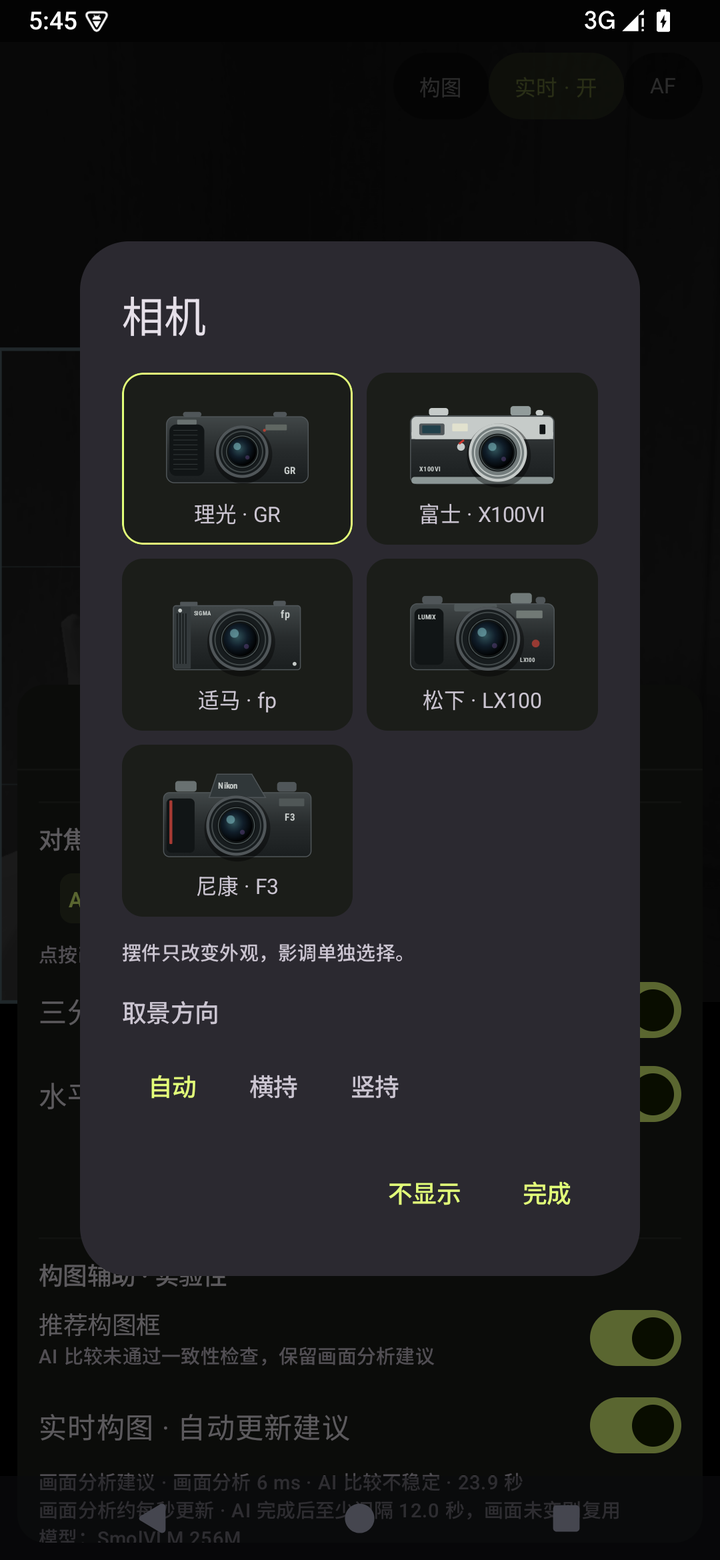
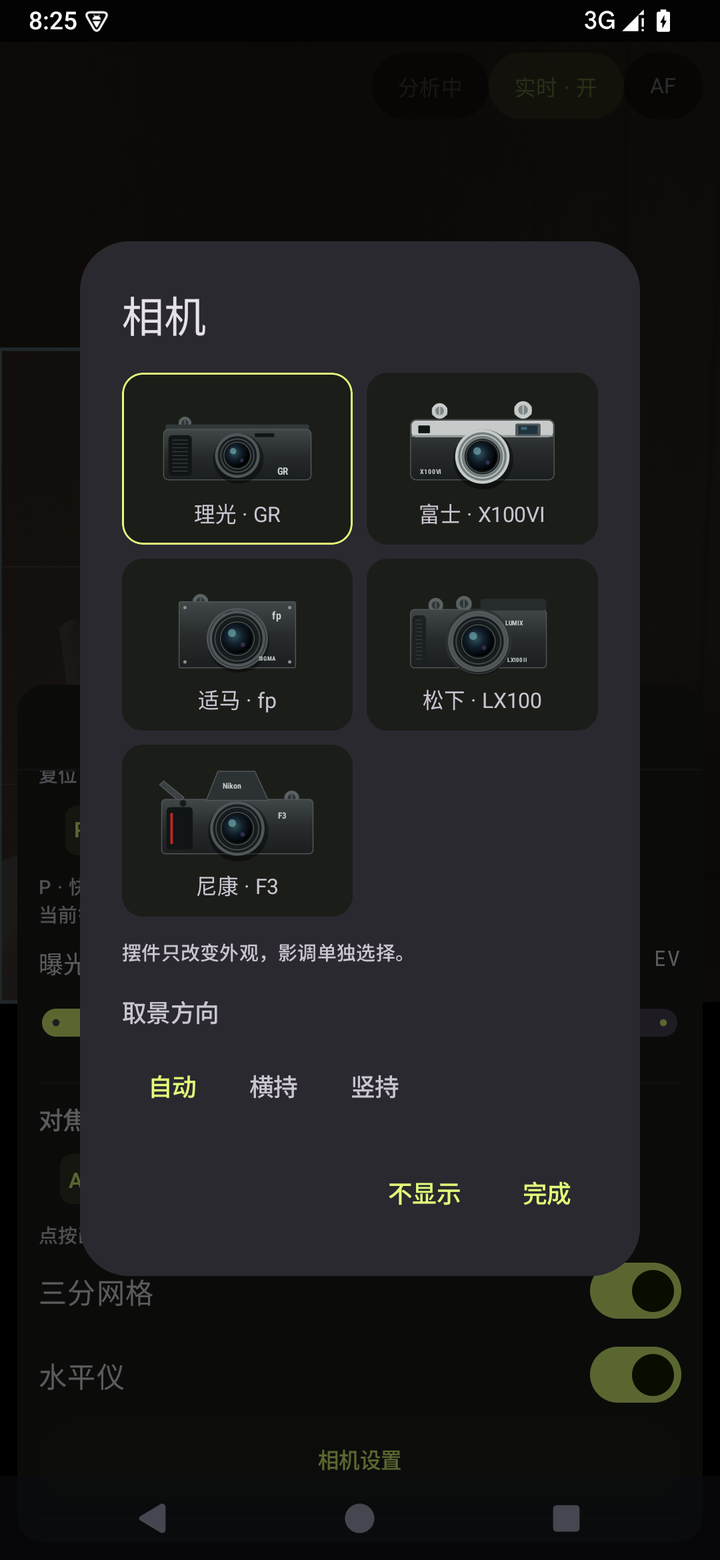
feat: give each camera collectible its own body-derived silhouette
All five camera artworks shared one rounded-rectangle body with a centered
lens and differed only in the lettering, so at 76x48dp in the tone-family
row and even in the picker dialog they read as the same camera. Each is
redrawn around the silhouette cues of the real body, still original
Compose Canvas vector art on the fixed 180x112 canvas with the same dark
palette — no downloaded product imagery:

- Ricoh GR III: the flattest, widest body, absolutely flat top with no
  hump/finder/flash (hot shoe only), one mode dial over the holder's
  right shoulder, a small grip ridge and centered fixed lens (an
  off-center barrel is a documented lens fault, not the design).
- Fujifilm X100VI: silver top deck with two dials (shutter speed and
  exposure compensation), the large square hybrid-viewfinder window high
  on the viewer-right, centered lens with silver ring.
- Sigma fp: hard-edged die-cast block — no hump, grip or front window;
  one combined dial/shutter, twin mic slots above the centered L-mount,
  four case screws for the modular industrial body.
- Panasonic LX100 II: asymmetric stepped deck — two sunken dials over the
  holder's right (viewer-left) shoulder, a raised EVF housing on the
  viewer-right, small grip swell, large protruding centered zoom lens.
  No red dot (that is the Leica D-LUX sibling).
- Nikon F3 (DE-2): dominant low angular pentaprism, film advance lever
  over the viewer-left shoulder, shutter-speed dial on the viewer-right,
[…]

diff --git a/app/src/main/java/dev/streetsnap/app/CameraArtwork.kt b/app/src/main/java/dev/streetsnap/app/CameraArtwork.kt
@@ -74,77 +74,126 @@ private fun DrawScope.lens(x: Float, y: Float, radius: Float, silver: Boolean = 
     drawCircle(Color(0xFF869494).copy(alpha = .6f), radius * .6f, c, style = Stroke(.75f))
 }
 
+/** Top-deck control dial: knurled cylinder poking above the deck line. */
+private fun DrawScope.dial(x: Float, topY: Float, r: Float, silver: Boolean = true) {
+    val metal = if (silver) Color(0xFFC6CBC9) else Color(0xFF5B6263)
+    val dark = if (silver) Color(0xFF7E8786) else Color(0xFF303536)
+    drawRoundRect(dark, Offset(x - r, topY + r * .5f), Size(r * 2, r * 1.1f), CornerRadius(1.5f))
+    drawCircle(metal, r, Offset(x, topY + r))
+    drawCircle(dark, r * .55f, Offset(x, topY + r))
+    drawLine(metal, Offset(x, topY + r * .5f), Offset(x, topY + r * 1.5f), 1.2f)
+}
+
+/* Ricoh GR III: the flattest, widest body here — absolutely flat top with
+ * no hump, no built-in finder or flash (hot shoe only), a centered fixed
+ * lens (an off-center barrel is a documented lens fault, not the design)
+ * and a small grip ridge on the viewer-left, i.e. the holder's right hand.
+ * The single mode dial rides that same viewer-left shoulder. */
 private fun DrawScope.ricohGr() {
-    panel(34f, 26f, 19f, 5f, bodyEdge)
-    panel(127f, 26f, 14f, 5f, bodyEdge)
-    body(17f, 31f, 146f, 68f, 8f)
-    panel(20f, 39f, 36f, 53f, inset, 7f)
-    for (y in 45..87 step 5) drawLine(Color(0xFF343A3A), Offset(24f, y.toFloat()), Offset(49f, y.toFloat()), .65f)
-    panel(28f, 34f, 20f, 5f, Color(0xFF697170), 1f)
-    panel(119f, 39f, 22f, 6f, Color(0xFF606762), 1f)
-    lens(95f, 67f, 27f)
-    lettering("GR", 138f, 90f, 10f)
-    drawCircle(Color(0xFFB04135), 1.5f, Offset(118f, 45f))
+    dial(36f, 31f, 6.5f, silver = false) // mode dial over the holder's right shoulder
+    panel(16f, 39f, 148f, 6f, Color(0xFF323839), 2f)
+    body(14f, 44f, 152f, 52f, 5f)
+    // hot shoe near center, toward the viewer-right
+    panel(108f, 48f, 20f, 4f, inset, 1f)
+    // small anti-slip grip on the viewer-left
+    panel(19f, 50f, 24f, 42f, inset, 4f)
+    for (y in 55..87 step 4) drawLine(Color(0xFF3A4141), Offset(23f, y.toFloat()), Offset(39f, y.toFloat()), .8f)
+    // centered fixed lens, all black
+    lens(90f, 71f, 23f)
+    lettering("GR", 131f, 91f, 10f)
 }
 
+/* Fujifilm X100VI: flat silver top deck (no prism), two control dials,
+ * the big square hybrid viewfinder window high on the viewer-right,
+ * silver-rimmed lens. Two-tone silver/black is the main thumbnail cue. */
 private fun DrawScope.fujiX100() {
-    panel(35f, 22f, 20f, 8f, bodySilver)
-    panel(119f, 20f, 21f, 10f, Color(0xFF929C9B))
-    panel(145f, 24f, 8f, 6f, bodySilver)
-    body(16f, 30f, 148f, 70f)
-    panel(17f, 31f, 146f, 23f, bodySilver, 5f)
-    panel(17f, 47f, 146f, 7f, bodySilver, 0f)
-    panel(17f, 93f, 146f, 7f, Color(0xFF8C9796), 3f)
-    panel(25f, 38f, 26f, 12f, bodyEdge, 2f)
-    panel(28f, 40f, 19f, 8f, Color(0xFF21404A), 1f)
-    panel(59f, 38f, 16f, 8f, Color(0xFFE1E1CE), 1f)
-    panel(149f, 39f, 6f, 10f, inset, 1f)
-    lens(106f, 68f, 30f, silver = true)
-    lettering("X100VI", 25f, 87f, 7f)
-    drawCircle(bodySilver, 4f, Offset(68f, 62f))
-    drawLine(Color(0xFFCE352D), Offset(66f, 59f), Offset(71f, 55f), 2f)
+    // dials sit on the deck: draw first, body overlaps their lower halves
+    dial(46f, 17f, 8f)   // shutter speed dial
+    dial(132f, 15f, 9f)  // exposure compensation dial
+    body(16f, 34f, 148f, 62f, 6f)
+    // silver top band across the whole front
+    panel(17f, 35f, 146f, 17f, bodySilver, 5f)
+    panel(17f, 50f, 146f, 1.6f, Color(0xFF8C9796))
+    // hybrid viewfinder: tall square window viewer-right
+    panel(124f, 38f, 26f, 13f, bodyEdge, 2f)
+    panel(127f, 40f, 20f, 9f, Color(0xFF1E333C), 1f)
+    panel(130f, 41.5f, 6f, 3f, Color(0xFF3E6672), .6f)
+    // small AF lamp viewer-left
+    panel(24f, 40f, 12f, 8f, inset, 1f)
+    lens(90f, 72f, 28f, silver = true) // centered lens with silver front ring
+    lettering("X100VI", 26f, 90f, 7f)
 }
 
+/* Sigma fp: a hard-edged die-cast block — the only body with no hump, no
+ * grip and no front window. A single combined dial/shutter sits over the
+ * viewer-left shoulder, twin mic slots straddle the centered L-mount, and
+ * the four case screws signal the modular, industrial body. */
 private fun DrawScope.sigmaFp() {
-    panel(31f, 30f, 18f, 4f, bodyEdge, 1f)
-    panel(127f, 29f, 13f, 5f, bodyEdge, 2f)
-    body(24f, 34f, 131f, 66f, 3f)
-    panel(25f, 35f, 17f, 64f, Color(0xFF343A3C), 1f)
-    for (x in 28..39 step 3) drawLine(inset, Offset(x.toFloat(), 42f), Offset(x.toFloat(), 94f), 1f)
-    drawCircle(bodySilver, 2f, Offset(31f, 39f))
-    drawCircle(bodySilver, 2f, Offset(149f, 94f))
-    lens(93f, 69f, 32f)
-    lettering("fp", 135f, 47f, 11f)
-    lettering("SIGMA", 45f, 44f, 6f)
+    dial(52f, 22f, 8f, silver = false) // combined dial + shutter, holder's right shoulder
+    body(30f, 30f, 120f, 68f, 1.5f)    // near right-angled block
+    // twin microphone slots symmetric above the mount
+    panel(78f, 39f, 9f, 3f, inset, 1f)
+    panel(93f, 39f, 9f, 3f, inset, 1f)
+    // case screws
+    drawCircle(Color(0xFF8A9291), 1.7f, Offset(36f, 36f))
+    drawCircle(Color(0xFF8A9291), 1.7f, Offset(144f, 36f))
+    drawCircle(Color(0xFF8A9291), 1.7f, Offset(36f, 92f))
+    drawCircle(Color(0xFF8A9291), 1.7f, Offset(144f, 92f))
+    lens(90f, 68f, 29f)
+    drawCircle(bodyEdge, 30.5f, Offset(90f, 68f), style = Stroke(2f)) // L-mount ring
+    lettering("fp", 126f, 48f, 11f)
+    lettering("SIGMA", 112f, 91f, 6f)
 }
 
+/* Panasonic LX100 II: asymmetric stepped top. From the viewer's side the
+ * EVF housing raises the right half of the deck (the holder's left
+ * shoulder), two sunken dials cluster over the viewer-left shoulder beside
+ * the small grip, and the large protruding zoom lens dominates the face.
+ * No red dot — that is the Leica D-LUX sibling, not the Lumix. */
 private fun DrawScope.lumixLx100() {
-    panel(28f, 24f, 21f, 8f, bodyEdge)
-    panel(119f, 21f, 22f, 11f, Color(0xFF717A79))
-    panel(145f, 25f, 10f, 7f, bodyEdge)
-    body(16f, 32f, 148f, 68f)
-    panel(20f, 37f, 30f, 58f, inset, 6f)
-    panel(61f, 32f, 44f, 8f, Color(0xFF51595A), 2f)
-    panel(125f, 39f, 27f, 8f, Color(0xFF717975), 1f)
-    lens(96f, 68f, 33f)
-    drawCircle(Color(0xFF973A33), 4f, Offset(145f, 73f))
-    lettering("LUMIX", 24f, 48f, 7f)
-    lettering("LX100", 129f, 92f, 6f)
+    // two dials over the holder's right shoulder = viewer-left
+    dial(42f, 26f, 7.5f, silver = false) // shutter speed dial
+    dial(71f, 24f, 8f, silver = false)   // exposure compensation dial
+    body(16f, 38f, 140f, 60f, 4f)
+    // EVF housing raises the viewer-right half of the deck
+    panel(88f, 27f, 68f, 12f, Color(0xFF262C2D), 3f)
+    // small grip swell on the viewer-left (holder's right hand)
+    panel(18f, 44f, 14f, 50f, Color(0xFF1C2021), 4f)
+    for (y in 49..89 step 4) drawLine(Color(0xFF394040), Offset(21f, y.toFloat()), Offset(28f, y.toFloat()), .8f)
+    // large protruding zoom lens, extra barrel rings read as extended
+    lens(86f, 71f, 29f)
+    drawCircle(Color(0xFF52595A), 30.2f, Offset(86f, 71f), style = Stroke(2.4f))
+    drawCircle(Color(0xFF2C3233), 33f, Offset(86f, 71f), style = Stroke(2f))
+    lettering("LUMIX", 114f, 54f, 7f)
+    lettering("LX100 II", 116f, 92f, 6f)
 }
 
+/* Nikon F3 with the DE-2 eye-level prism: the low, angular central
+ * pentaprism towers over every other body and is the whole silhouette.
+ * Film advance lever flicks out over the viewer-left shoulder (coaxial
+ * with the shutter), the shutter-speed dial rides the viewer-right
+ * shoulder, and Giugiaro's red vertical line runs down the concave grip
+ * on the viewer-left. Centered lens on the tallest, most squared body. */
 private fun DrawScope.nikonF3() {
-    panel(26f, 23f, 22f, 11f, Color(0xFF697171))
-    panel(131f, 24f, 20f, 10f, bodyEdge)
-    body(14f, 35f, 152f, 66f, 6f)
-    val prism = Path().apply {
-        moveTo(61f, 40f); lineTo(69f, 16f); lineTo(105f, 16f); lineTo(119f, 40f); close()
+    // film advance lever flicking out over the viewer-left shoulder
+    val lever = Path().apply {
+        moveTo(30f, 44f); lineTo(10f, 27f); lineTo(14f, 23f); lineTo(35f, 40f); close()
     }
-    drawPath(prism, Color(0xFF303739))
+    drawPath(lever, Color(0xFF3B4142))
+    drawPath(lever, bodyEdge, style = Stroke(1f))
+    dial(146f, 33f, 7.5f, silver = false) // shutter-speed dial, viewer-right shoulder
+    body(12f, 42f, 156f, 56f, 4f)
+    // dominant low angular pentaprism
+    val prism = Path().apply {
+        moveTo(58f, 43f); lineTo(70f, 13f); lineTo(108f, 13f); lineTo(122f, 43f); close()
+    }
+    drawPath(prism, Color(0xFF2C3234))
     drawPath(prism, bodyEdge, style = Stroke(1f))
-    panel(17f, 41f, 29f, 56f, inset, 5f)
-    panel(20f, 43f, 3f, 45f, Color(0xFFA83A33), 1f)
-    panel(133f, 41f, 26f, 8f, Color(0xFF505757), 1f)
-    lens(89f, 69f, 31f)
-    lettering("Nikon", 70f, 31f, 9f)
-    lettering("F3", 139f, 64f, 10f)
+    lettering("Nikon", 75f, 31f, 8.5f)
+    // concave grip on the viewer-left with the red vertical accent line
+    panel(17f, 50f, 27f, 44f, inset, 4f)
+    panel(21f, 56f, 2.6f, 32f, Color(0xFFC0271F), .8f)
+    drawCircle(Color(0xFF171B1C), 3.4f, Offset(34f, 46f)) // shutter release, viewer-left
+    lens(90f, 72f, 28f)
+    lettering("F3", 132f, 62f, 9f)
 }

diff --git a/docs/images/README.md b/docs/images/README.md
@@ -3,7 +3,7 @@
 图片来自安装在 Android 15（API 35）ARM64 模拟器上的 Preview APK（2026-10-18，全屏取景器新 UI）。取景为模拟器内置 virtualscene 测试房间，截图不代表荣耀 Vs3 真机或实际摄影效果。
 
 - `viewfinder.png`（720×1560，竖屏 1080×2340 截图缩放）：全屏取景器、三分网格、画面分析（规则）蓝色推荐框与中文建议卡；状态行实时显示来源与耗时（此图为「画面分析建议 · 画面分析 2 ms · AI 比较不稳定 · 28.9 秒」，模型两轮选择不一致时如实保留蓝框）；底部渐变浮层为焦段分段条、缩略图、居中快门与「调整」入口，顶部为构图/实时/AF 胶囊。
-- `camera-picker.png`（720×1560）：控制面板「拍摄」分区→「相机设置」里的相机摆件选择弹窗，五款相机与取景方向（自动/横持/竖持）；摆件只改变外观，影调单独选择。
+- `camera-picker.png`（720×1560）：控制面板「拍摄」分区→「相机设置」里的相机摆件选择弹窗，五款相机与取景方向（自动/横持/竖持）；摆件只改变外观，影调单独选择。五款摆件按真机轮廓特征区分（原创矢量、非产品图）：理光 GR 扁宽平顶+左侧握把+居中定焦镜头，富士 X100VI 银色顶盖+左右双转盘+右上混合取景方窗+银环镜头，适马 fp 直角方块+无握把无窗+四角螺丝+居中卡口，松下 LX100 II 非对称台阶顶（左双转盘、右上 EVF 高台）+突出大镜头+小握把，尼康 F3 高耸五棱镜+过片扳手+握把红竖线；影调分区顶栏的同款缩略图为 76×48dp。
 - `edge-models.png`（720×1560）：控制面板「拍摄」分区底部的构图辅助管理——推荐框/实时两个开关、三个可选端侧模型（SmolVLM 256M/500M、d1 决策 600M）与已安装 417.7MB 状态。此图状态行是真实的「画面分析建议 · 画面分析 2 ms · AI 比较超时 · 30.1 秒」：d1 双轮在该模拟器软件渲染下超过 30s 总预算，界面超时降级、保留画面分析建议，副文案随状态切为「模型比较超时，保留图像构图建议」。
 - `model-adoption.png`（1170×540，横屏原尺寸未缩放）：端侧模型通过门闸、推荐框升级为黄色「AI 选择」的真实截图。
 
